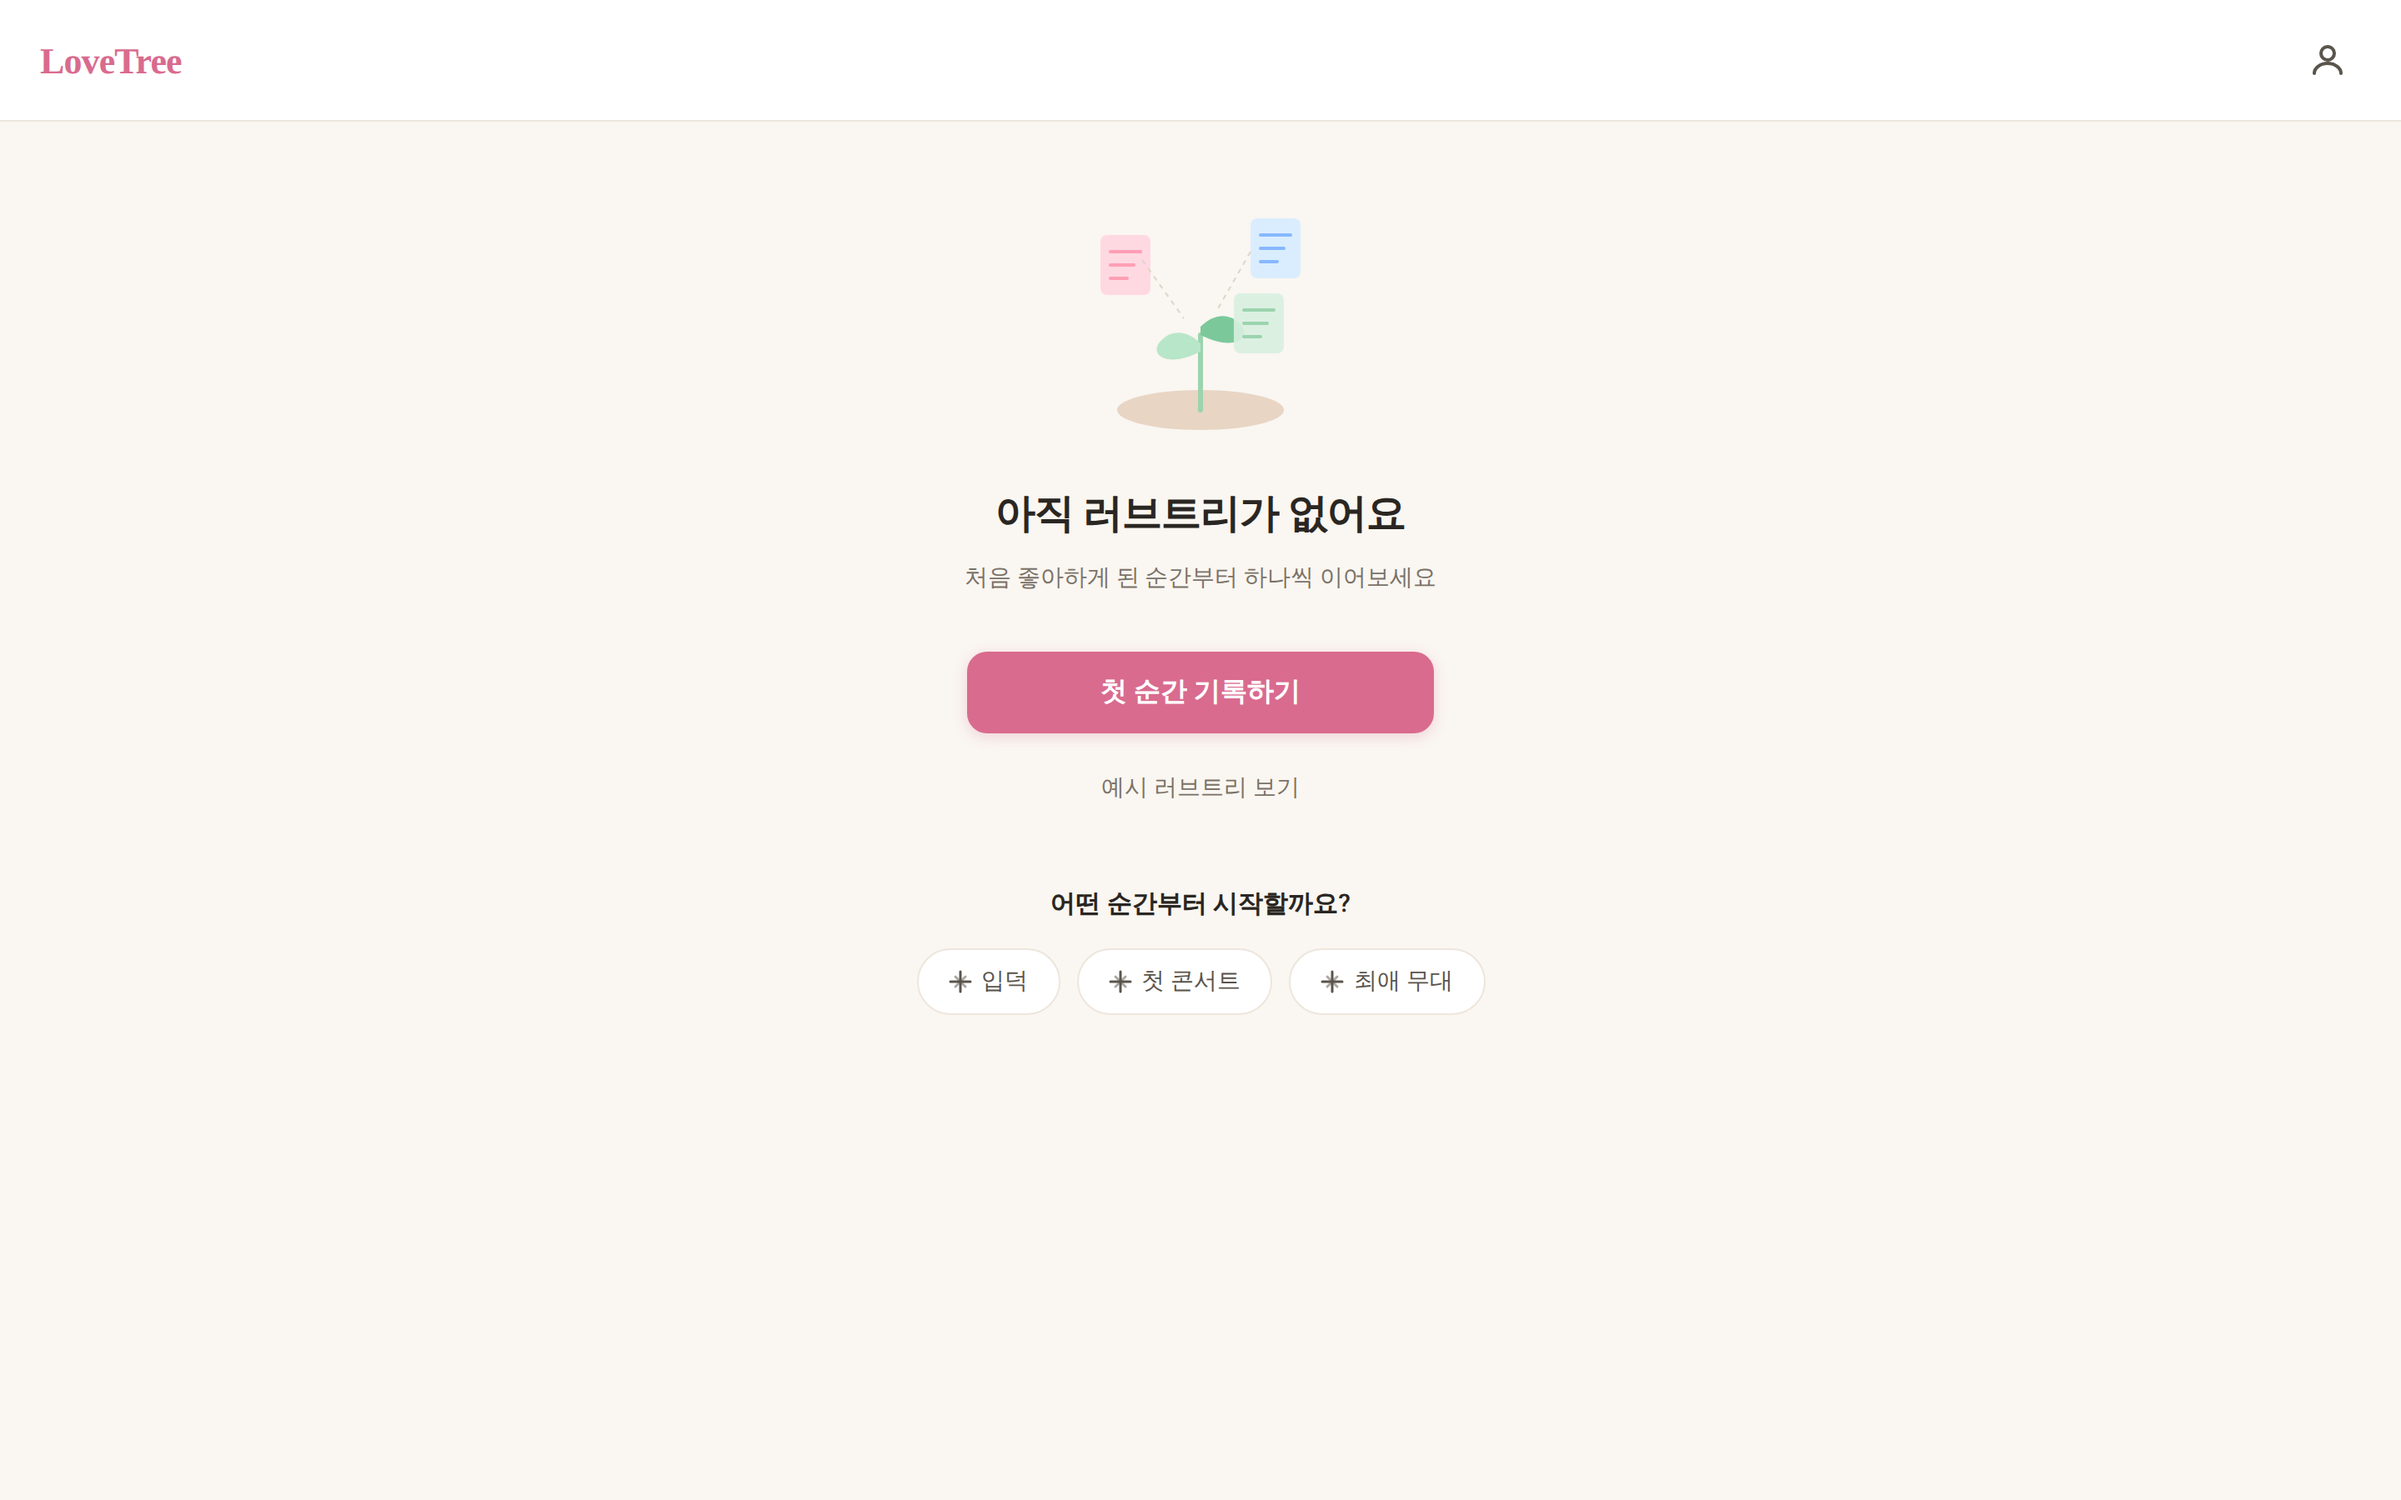
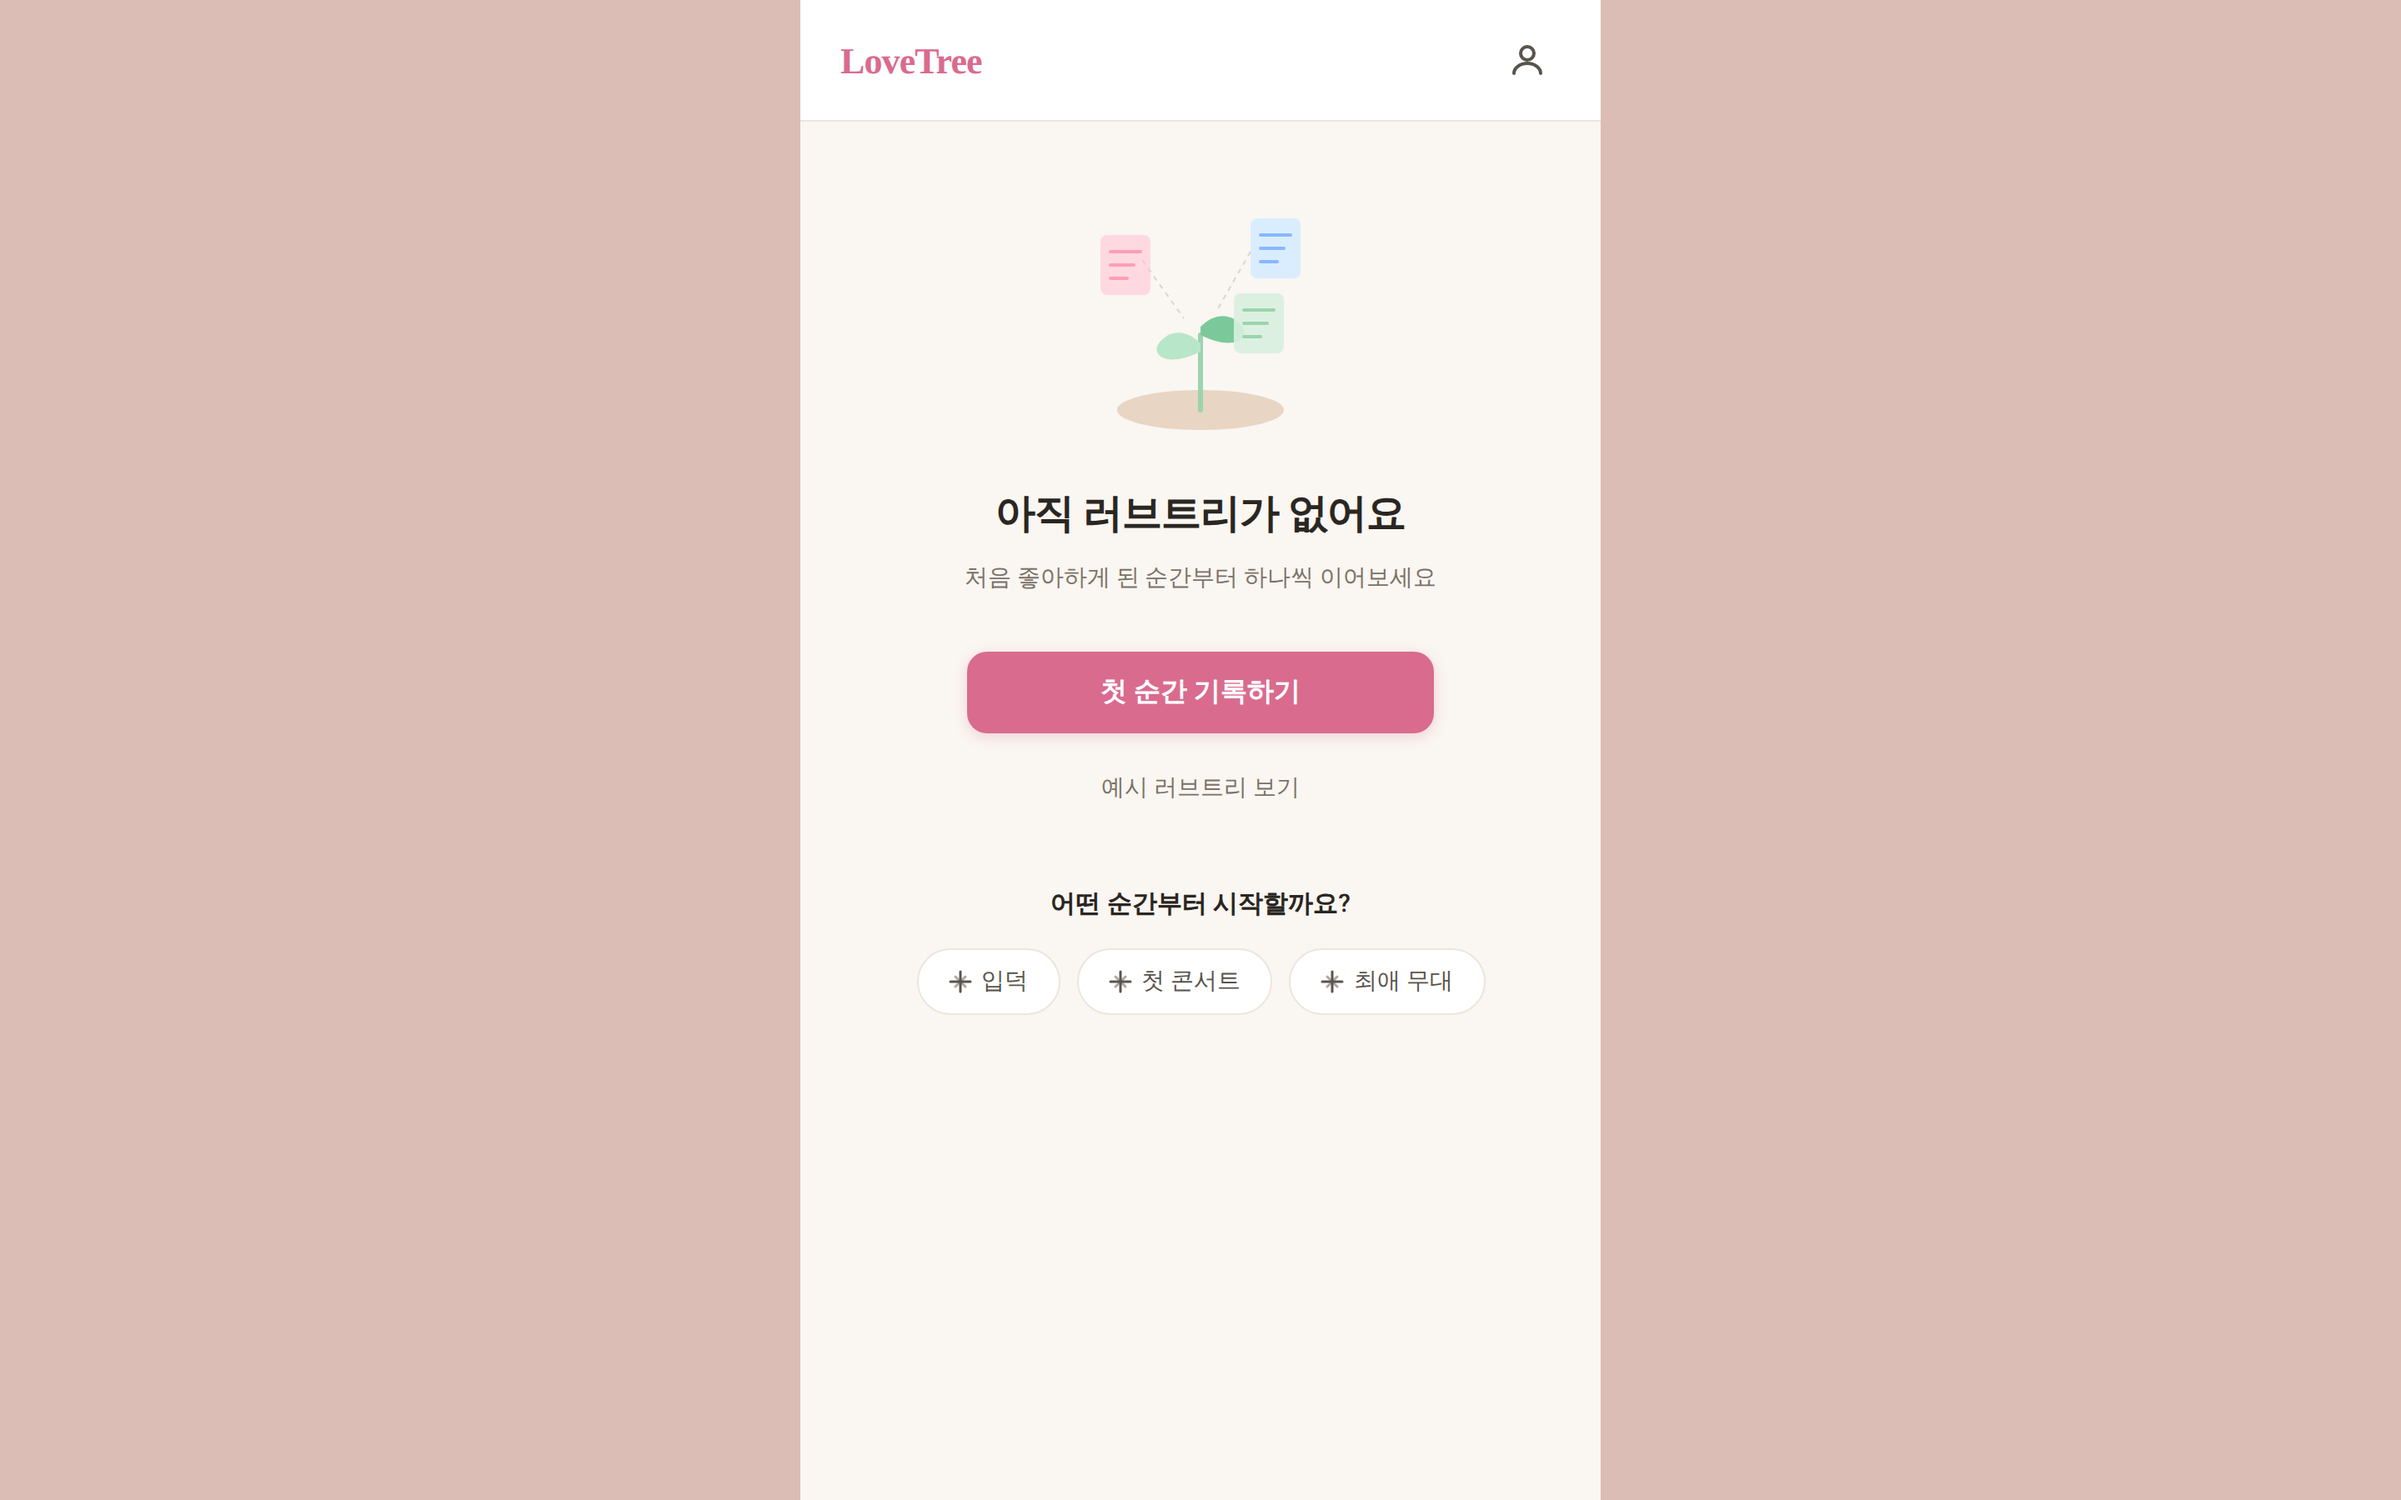
fix: constrain my trees empty desktop frame

diff --git a/src/components/MyTreesEmptyPage.module.css b/src/components/MyTreesEmptyPage.module.css
@@ -218,3 +218,18 @@
     font-size: 15px;
   }
 }
+
+/* 반응형: 데스크톱 — 전체 페이지 480px 중앙 모바일 프레임 */
+@media (min-width: 768px) {
+  .page {
+    width: 100%;
+    max-width: 480px;
+    margin: 0 auto;
+  }
+
+  .topBar,
+  .content {
+    width: 100%;
+    box-sizing: border-box;
+  }
+}

diff --git a/docs/evidence/my-trees-empty/known-visual-differences.md b/docs/evidence/my-trees-empty/known-visual-differences.md
@@ -20,7 +20,7 @@
 - 일러스트레이션: SVG 새싹 + 떠 있는 카드 3개
 - 제목/안내: 기준 이미지와 동일
 - CTA 버튼 2개
-- 빠른 시작 태그 3개 (입덕, 첫 콘서트, 최애 무대) + leaf 아이콘
+- 빠른 시작 태그 3개 (입덕, 첫 콘서트, 최애 무대) + 정적 교차형 장식 아이콘
 
 ## 미포함 (UI BASE 의도적 생략)
 
@@ -52,9 +52,11 @@
 - padding: 48px 24px 64px → 40px 20px 48px (@media ≤560px 반응형 대응)
 
 **Desktop:**
-- max-width: 480px 중앙 정렬 모바일 프레임
-- 데스크톱 뷰포트에서도 모바일 UX 유지
+- `.page` 전체가 최대 480px 중앙 모바일 프레임
+- 헤더와 본문이 동일한 480px 프레임 안에 포함됨
+- 뷰포트 전체 폭 헤더를 사용하지 않음
 - sticky header 유지
+- 데스크톱 뷰포트에서도 모바일 UX 유지
 
 ## radio/checkbox 상태
 
